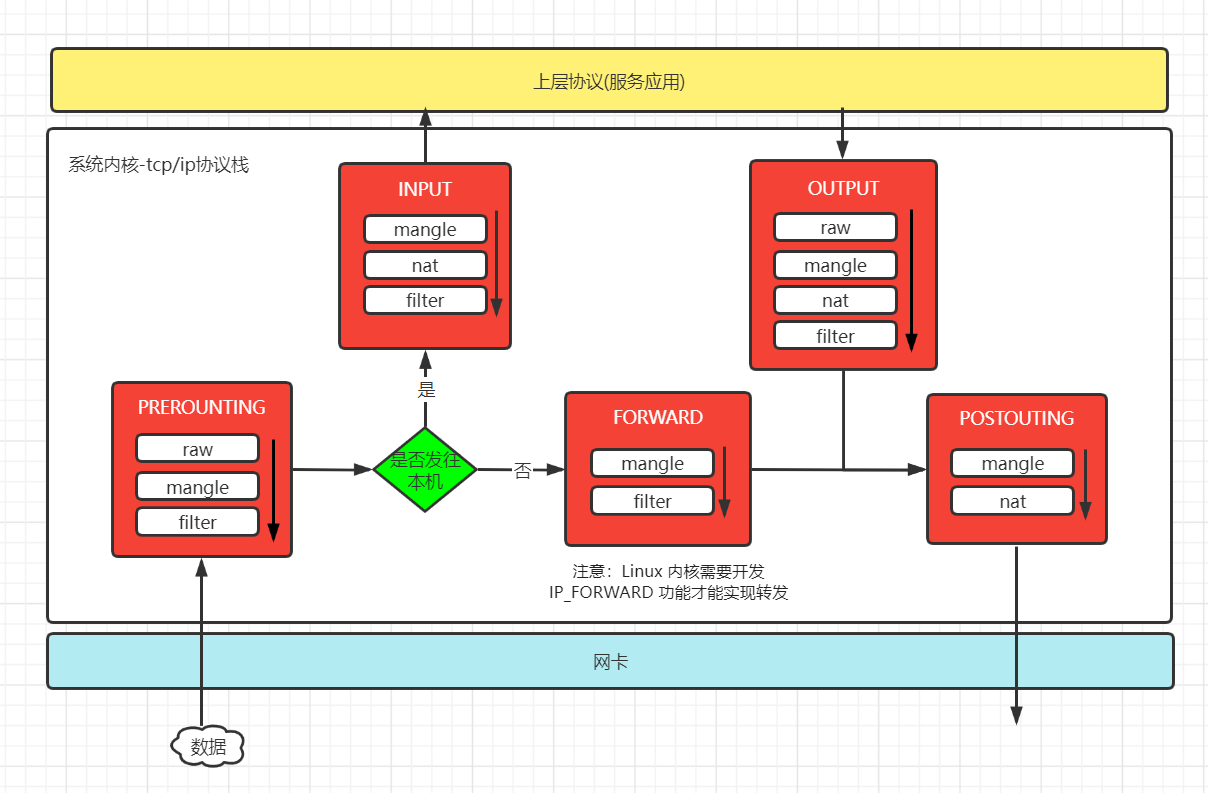
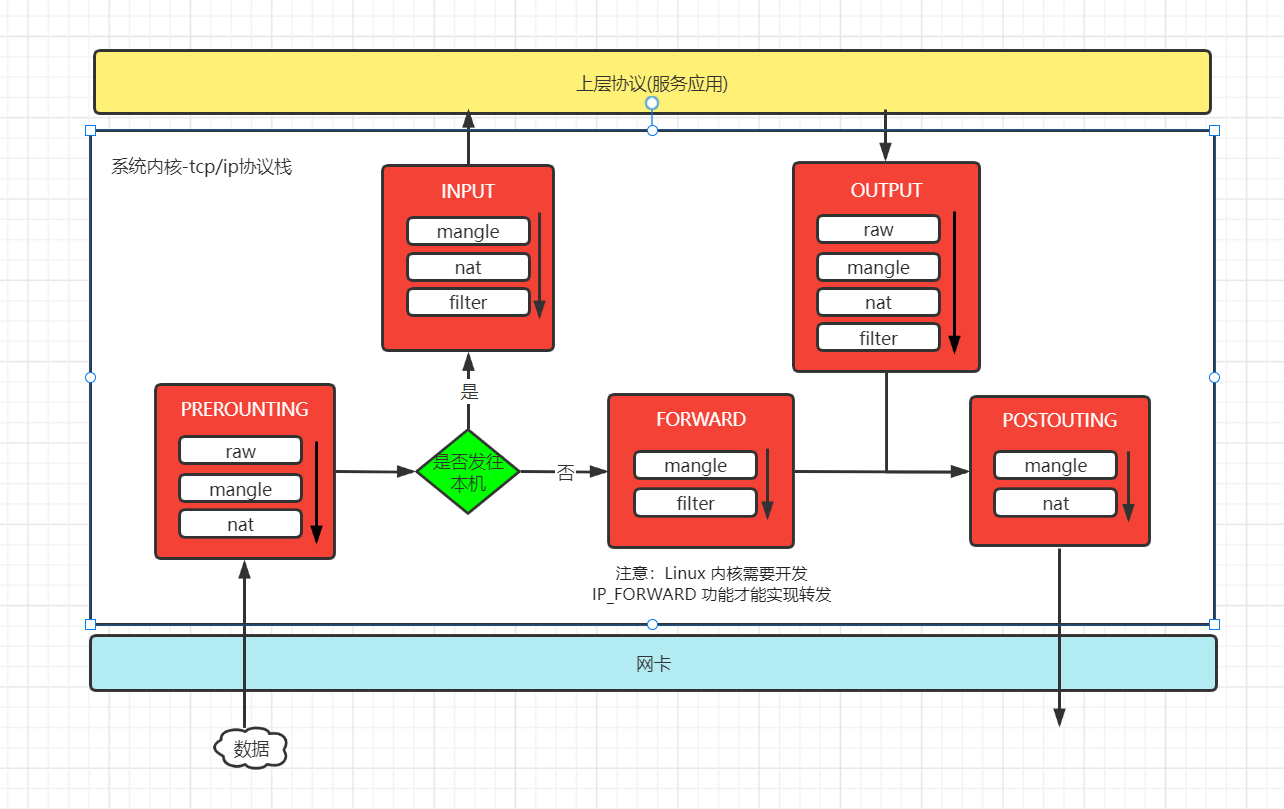
docs: 文档优化

Changed region(s): [[0.0306, 0.0605, 0.9801, 0.9685], [0.9189, 0.454, 0.9495, 0.4842]]

diff --git a/source/_posts/Linux/iptables 学习笔记.md b/source/_posts/Linux/iptables 学习笔记.md
@@ -5,19 +5,41 @@ title: iptables 学习笔记
 iptables 是 Linux 防火墙软件，虽然已经被 nftables 取代了，但是仍然广泛的运用着。iptables 防火墙的网络地址转换、数据包修改，以及过滤功能，是由 Linux 内核中的 netfilter 模块实现的，iptables 通过命令行去定义服务器流量的进出规则，然后由 netfilter 模块去执行。
 
 ## 2. iptables 过滤和转发数据包的流程
-流量数据流量包传输到主机的数据链路层时，也就传输到内核的 TCP/IP 协议栈时，会经过 PREROUTING、INPUT、OUTPUT、FORWARD 和 POSTROUTING 链路节点，通过 iptable 可以在这些节点上配置过滤、转发规则，每一个节点上可以配置多个规则，多个规则串联起来形成一条链(chain)，在节点中的链规则是从上往下执行的，只要某一条规则匹配成功，就不继续往下匹配，并执行规则中配置的 ACCEPT 或者 DROP 等等动作，链中的规则，按规则作用分组，然后每一个分组可以看作一个表(table)，在表中的规则作用如下：
-- raw：控制 nat 表中连接追踪机制的启用状况，可以控制的链路有 PREROUTING、OUTPUT;
-- mangle 表：用于修改数据包中的数据，可以控制的链路有 PREROUTING、INPUT、OUTPUT、FORWARD 和 POSTROUTING;
-- nat 表：用于数据包的转发，可以控制的链路有 PREROUTING、INPUT、OUTPUT 和 POSTROUTING;
+流量数据流量包传输到主机的数据链路层时，也就传输到内核的 TCP/IP 协议栈时，会经过 PREROUTING、INPUT、OUTPUT、FORWARD 和 POSTROUTING 链路节点，通过 iptable 可以在这些节点上配置过滤、转发规则，每一个节点上可以配置多个规则，多个规则串联起来形成一条链(chain)，在节点中的链规则是从上往下执行的，只要某一条规则匹配成功，就不继续往下匹配，并执行规则中配置的 ACCEPT 或者 DROP 等等动作，链中的规则，按规则作用分组，然后每一个分组可以看作一个表(table)，因此不同作用规则要定义到指定的表中，表的说明如下：
+- raw 表：控制 nat 表中连接追踪机制的启用状况，可以控制的链路节点有 PREROUTING、OUTPUT;
+- mangle 表：用于修改数据包中的数据，可以控制的链路节点有 PREROUTING、INPUT、OUTPUT、FORWARD 和 POSTROUTING;
+- nat 表：用于数据包的转发，可以控制的链路节点有 PREROUTING、INPUT、OUTPUT 和 POSTROUTING;
 - filter 表：控制数据包是否允许进出及转发，可以控制的链路有 INPUT、FORWARD 和 OUTPUT。
+ **总上所述，iptable 中常说的4表5链，指的就是 raw、mangle、nat、filter 和 PREROUTING、INPUT、OUTPUT、FORWARD、POSTROUTING。**
 ![iptables-过滤转发流程](/images/iptables-过滤转发流程.png)
 
+## iptales 规则
+netfilter 是从上到下的一条一条的匹配 iptables 在 raw -> mangle -> nat -> filter 表中定义的规则，只要匹配成功就会执行规则中配置的动作，注意一旦匹配成功就不会继续往下匹配了。
+### 2.1 iptables 规则定义
+iptables 定义规则的语法如下：
+```
+iptables -t <table> <command> <chain> <parameter> -j <action>
+
+```
+* table 指定规则定义在哪个表中，如 raw、mangle、nat、filter 等。
+* command 指定规则的添加方式，如 -A 将规则追加到表的末尾，-I 将规则插入到表的指定行中。
+* chain 指定规则要定义在哪个节点链上
+* parameter 指定规则的过滤或者转发的条件参数
+* action 指定规则匹配要跳转执行的动作，如 ACCEPT、DROP 等等
+
+### 2.2 定义规则用到的参数说明
+定义规则常用的参数说明如下:
 
 
-
-## iptales 规则说明
-iptables 匹配规则是从上到下的一条一条的匹配的，只要匹配成功就会执行规则中配置的动作，注意一旦匹配成功就不会继续往下匹配了。
-
+### 2.3 定义规则用到的动作说明
+- ACCEPT：允许数据包通过。
+- DROP：直接丢弃数据包，不给任何回应信息。
+- REJECT：拒绝数据包通过，会响应一个拒绝的信息。
+- SNAT：源地址转换，解决内网用户用同一个公网地址上网的问题。
+- MASQUERADE：是 SNAT 的一种特殊形式，适用于动态的、临时会变的 ip 上。
+- DNAT：目标地址转换。
+- REDIRECT：在本机做端口映射。
+- LOG：会将访问日志记录到 /var/log/messages 文件中，只是做日记记录，所以会继续往下匹配规则。
 
 
 
@@ -48,14 +70,12 @@ iptables -F
 # 删除 nat 表的整个规则
 iptables -t nat -F
 ```
-删除某一条规则的命令 `iptables -D 链 行号 `，例子如下：
+删除某一条规则的命令 `iptables - <table> -D <chain> <line-number> `，例子如下：
 ```
-# 先使用命令 iptables -t filter -nL 规则的链和行号，再删除
-iptables -D INPUT 5 
-
-
-
+# 查看规则的 chain 和 line-number
+iptables -t filter -nL
+# 删除规则
+iptables -t filter -D INPUT 5  
 
 ```
-
 
